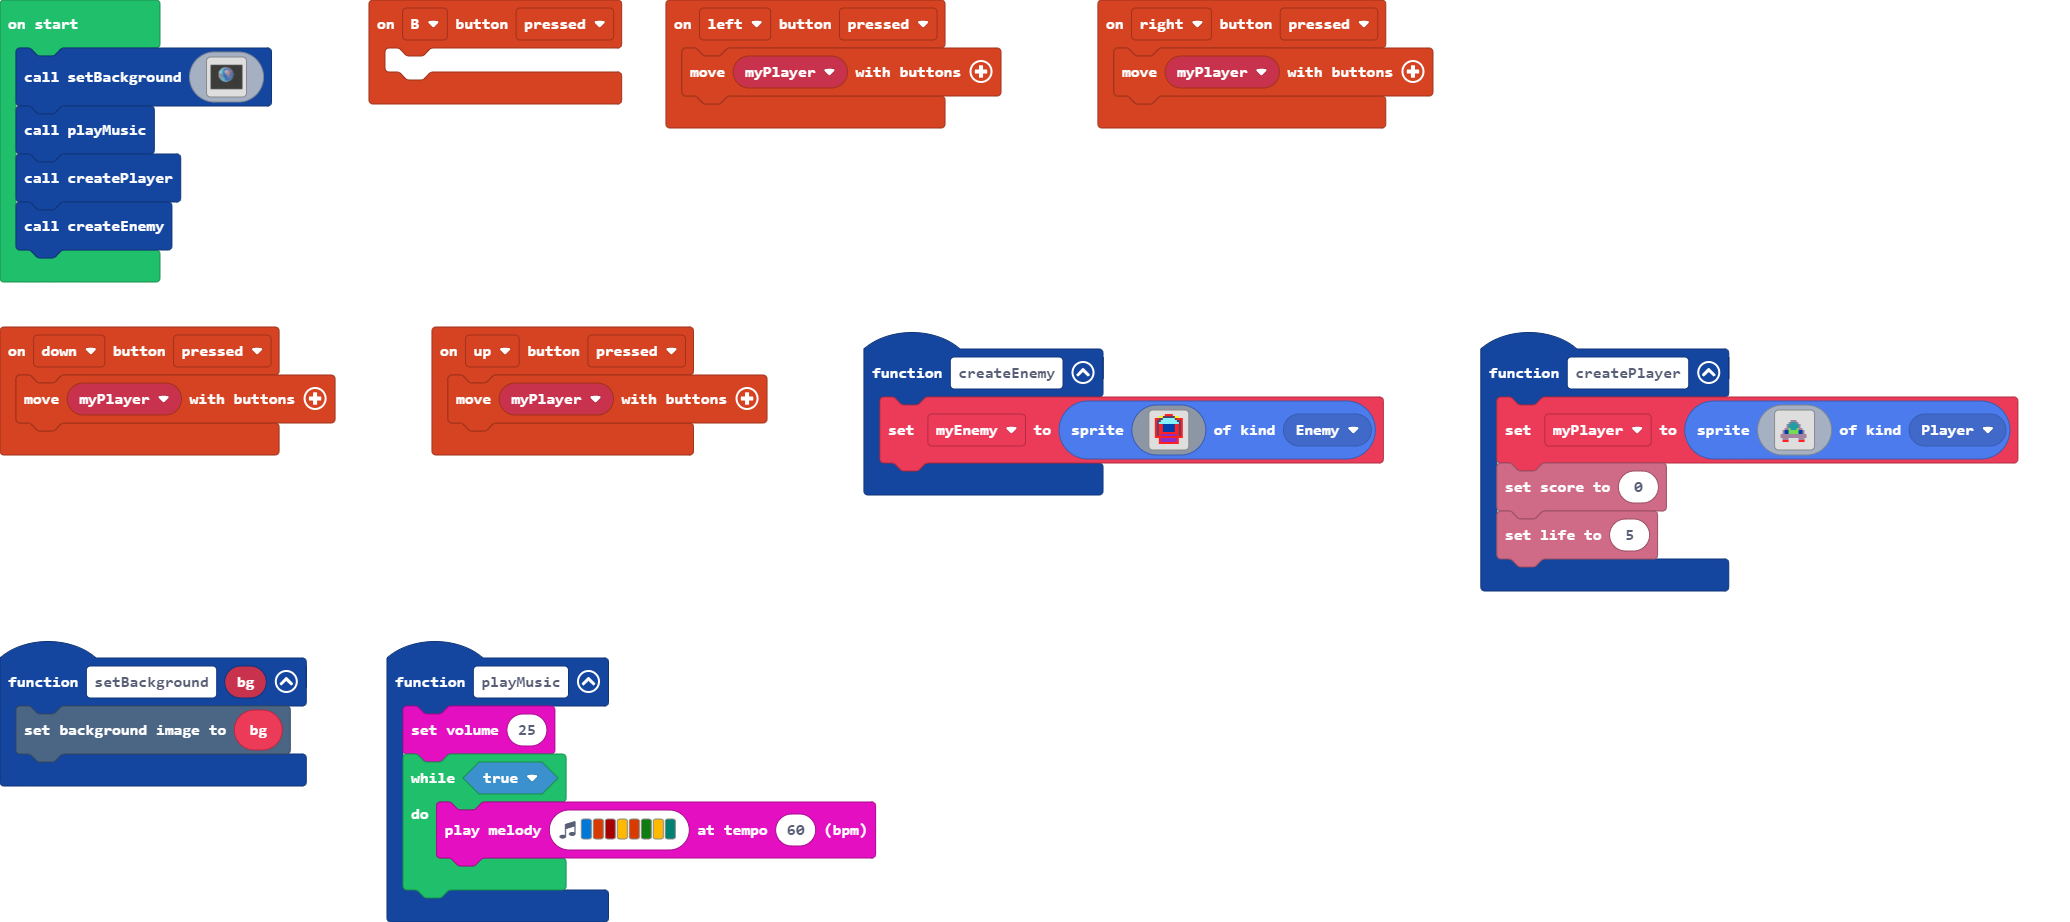
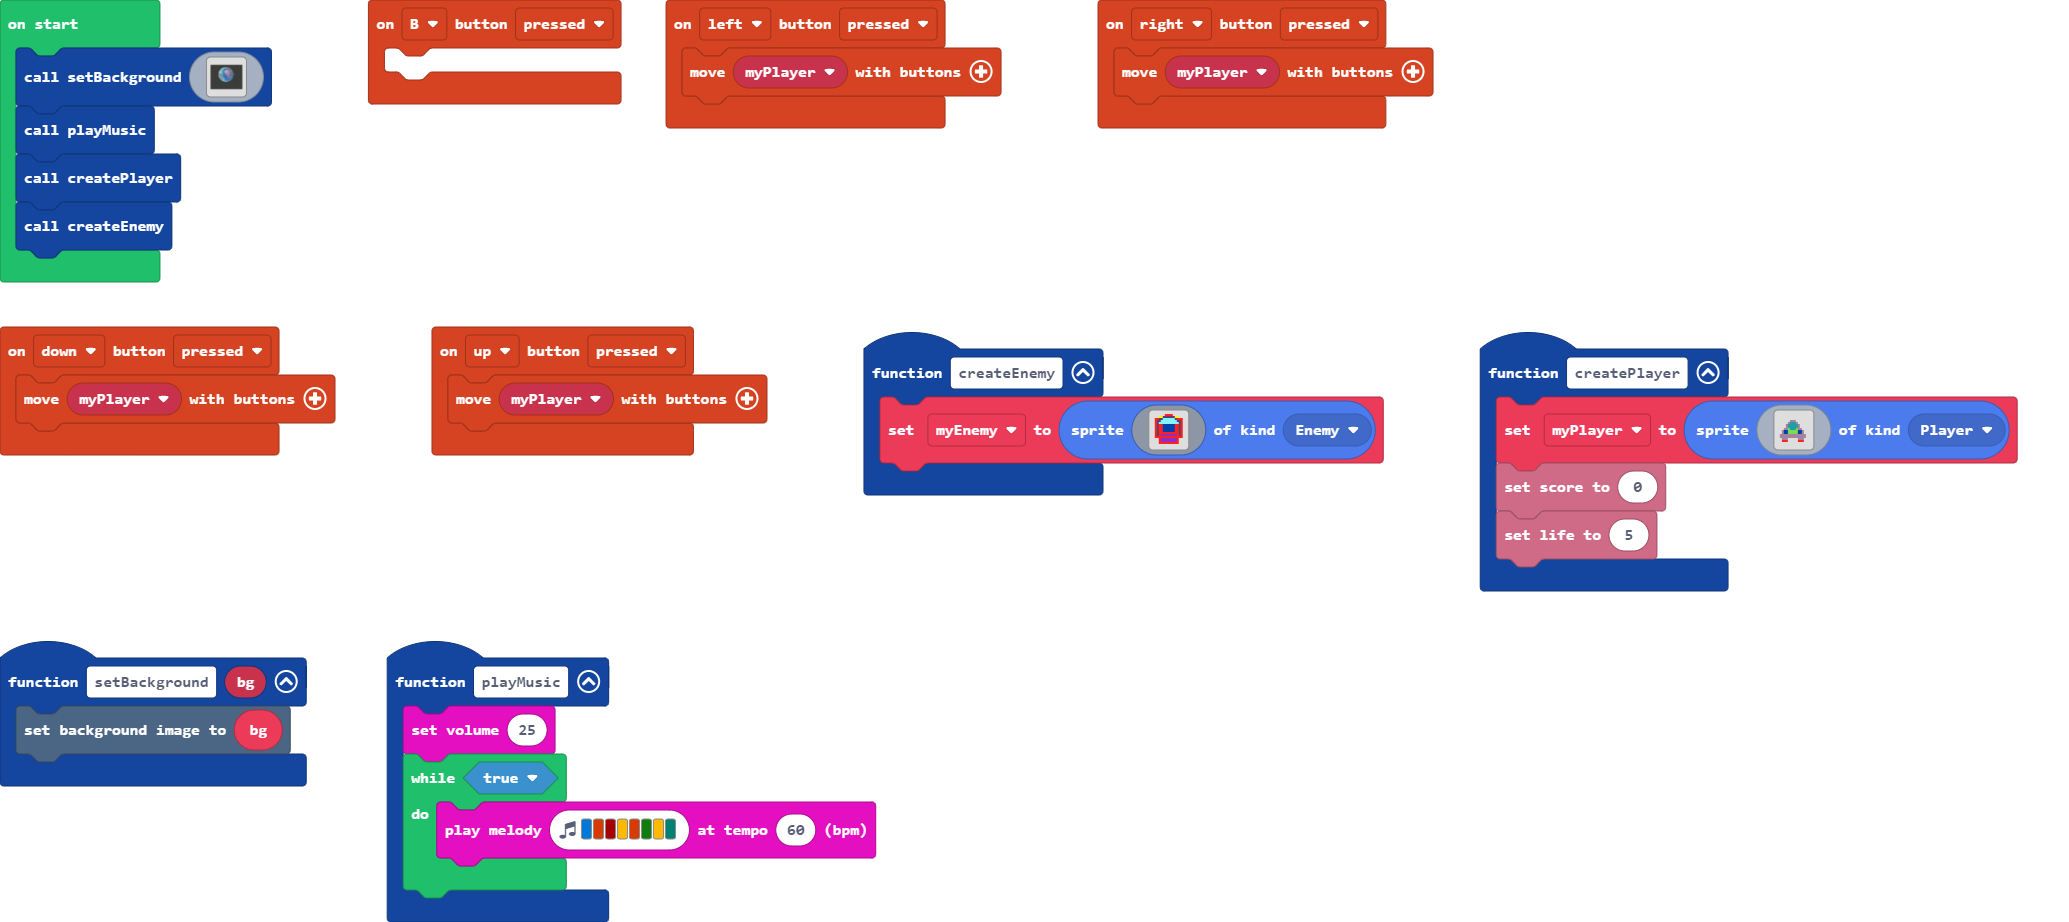
Restore '19/6/2021 17:01:45 cambios menores'

diff --git a/images.g.ts b/images.g.ts
@@ -3,6 +3,25 @@ namespace myImages {
 
     helpers._registerFactory("image", function(name: string) {
         switch(helpers.stringTrim(name)) {
+            case "6mp+m)So*iNJr^Y6So~U":
+            case "player_rojectile":return img`
+. . . . . . . . . . . . . . . . 
+. . . . . . 8 8 . . . . . . . . 
+. . . . . . 8 8 8 . . . . . . . 
+. . . . . . 8 2 8 . . . . . . . 
+. . . . . . 8 2 8 8 . . . . . . 
+. . . . . . 8 2 8 8 . . . . . . 
+. . . . . 8 8 2 8 8 . . . . . . 
+. . . . . 8 2 2 2 8 . . . . . . 
+. . . . . 8 2 2 2 8 . . . . . . 
+. . . . . 8 2 8 2 8 . . . . . . 
+. . . . . 8 2 8 8 8 . . . . . . 
+. . . . . 8 8 8 8 . . . . . . . 
+. . . . . . 8 . 8 . . . . . . . 
+. . . . . . . . 8 . . . . . . . 
+. . . . . . . . 8 . . . . . . . 
+. . . . . . . . . . . . . . . . 
+`;
             case "$_z_t4Fb}*}Um^!-+AKE":
             case "main_player":return img`
 . . . . . . . . . . . . . . . . 
@@ -40,6 +59,24 @@ namespace myImages {
 . . . 2 a a a a a a a a 2 . . . 
 . . . 2 2 2 2 2 2 2 2 2 2 . . . 
 . . . . . . . . . . . . . . . . 
+`;
+            case "]H=Oi6a~~)6r9Ut7-Z|*":
+            case "frame":return img`
+. . . . . . . . . . . . . . . 
+. . . . . . . . . . . . . . . 
+. . . . . . . . . . . . . . . 
+e e e e e e e e e e e e e e e 
+e . . . . . . . . . . . . . e 
+e . . . . . . . . . . . . . e 
+e . . . . . . . . . . . . . e 
+e . . . . . . . . . . . . . e 
+e . . . . . . . . . . . . . e 
+e . . . . . . . . . . . . . e 
+e . . . . . . . . . . . . . e 
+e . . . . . . . . . . . . . e 
+e . . . . . . . . . . . . . e 
+e . . . . . . . . . . . . . e 
+e e e e e e e e e e e e e e e 
 `;
             case "BXU4#!@:eev{pC16*lZi":
             case "game_bg":return img`
@@ -163,25 +200,6 @@ ffffffffffffffffffffffffffffffffffffffffffffffffffffffffffffffffffffffffffffffff
 ffffffffffffffffffffffffffffffffffffffffffffffffffffffffffffffffffffffffffffffffffffffffffffffffffffffffffffffffffffffffffffffffffffffffffffffffffffffffffffffff
 ffffffffffffffffffffffffffffffffffffffffffffffffffffffffffffffffffffffffffffffffffffffffffffffffffffffffffffffffffffffffffffffffffffffffffffffffffffffffffffffff
 ffffffffffffffffffffffffffffffffffffffffffffffffffffffffffffffffffffffffffffffffffffffffffffffffffffffffffffffffffffffffffffffffffffffffffffffffffffffffffffffff
-`;
-            case "6mp+m)So*iNJr^Y6So~U":
-            case "player_rojectile":return img`
-. . . . . . . 2 2 . . . . . . . 
-. . . . . . 4 4 2 . . . . . . . 
-. . . . . . 4 4 2 . . . . . . . 
-. . . . . . 4 4 4 4 . . . . . . 
-. . . . . . 4 5 4 4 . . . . . . 
-. . . . . . 4 5 4 5 . . . . . . 
-. . . . . . 5 5 2 5 . . . . . . 
-. . . . . . 5 5 2 5 . . . . . . 
-. . . . . . 5 8 8 5 . . . . . . 
-. . . . . . 5 2 5 5 . . . . . . 
-. . . . . . 4 2 5 4 . . . . . . 
-. . . . . . 4 4 5 4 . . . . . . 
-. . . . . . 4 4 5 4 . . . . . . 
-. . . . . . 4 4 5 4 . . . . . . 
-. . . . . . . 4 4 4 . . . . . . 
-. . . . . . . 2 4 . . . . . . . 
 `;
         }
         return null;
